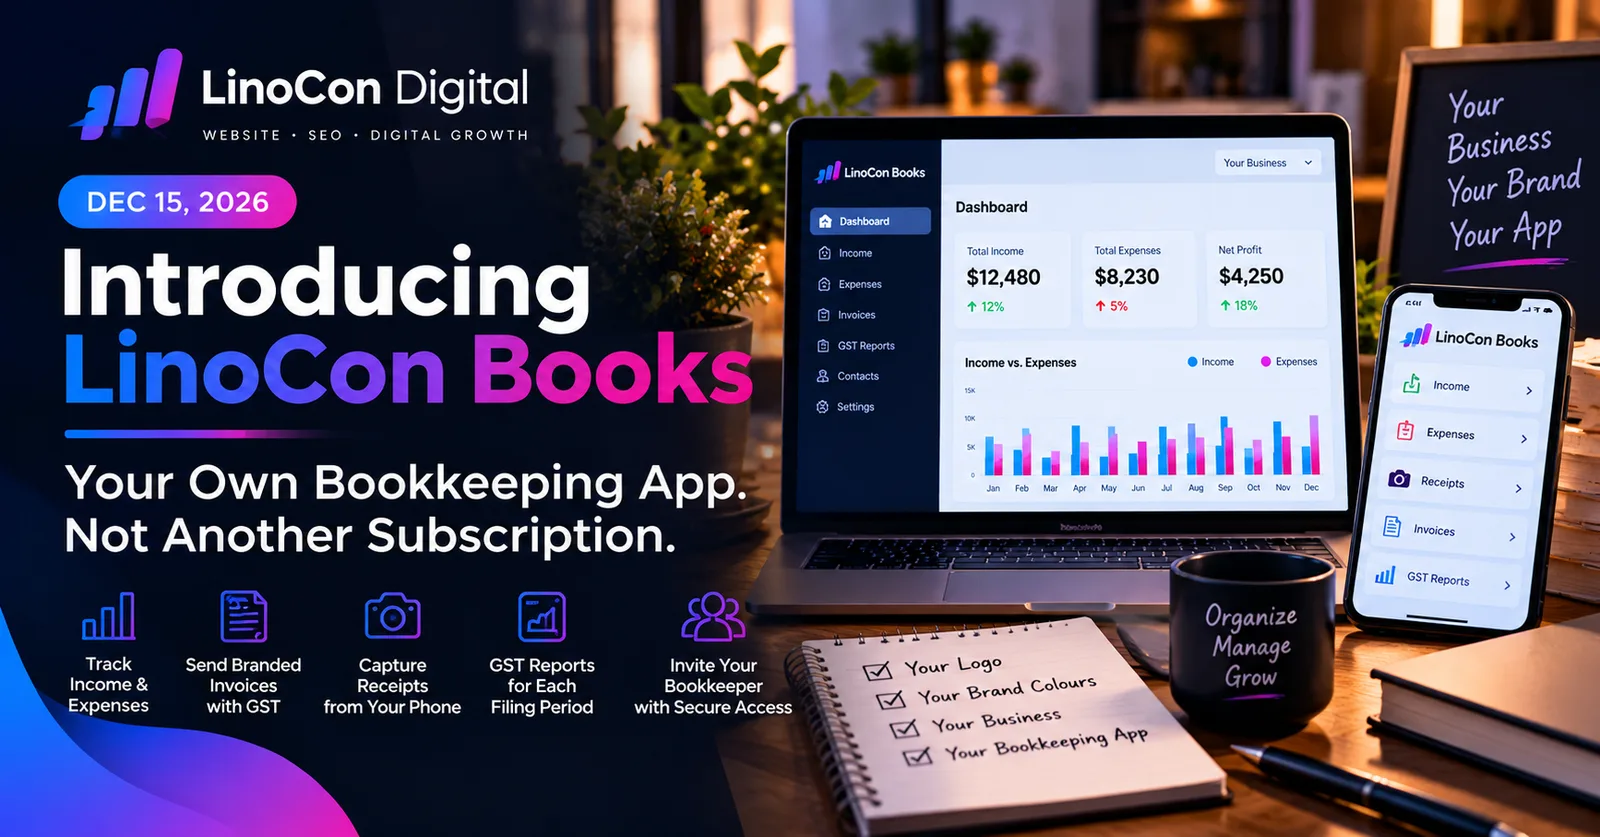
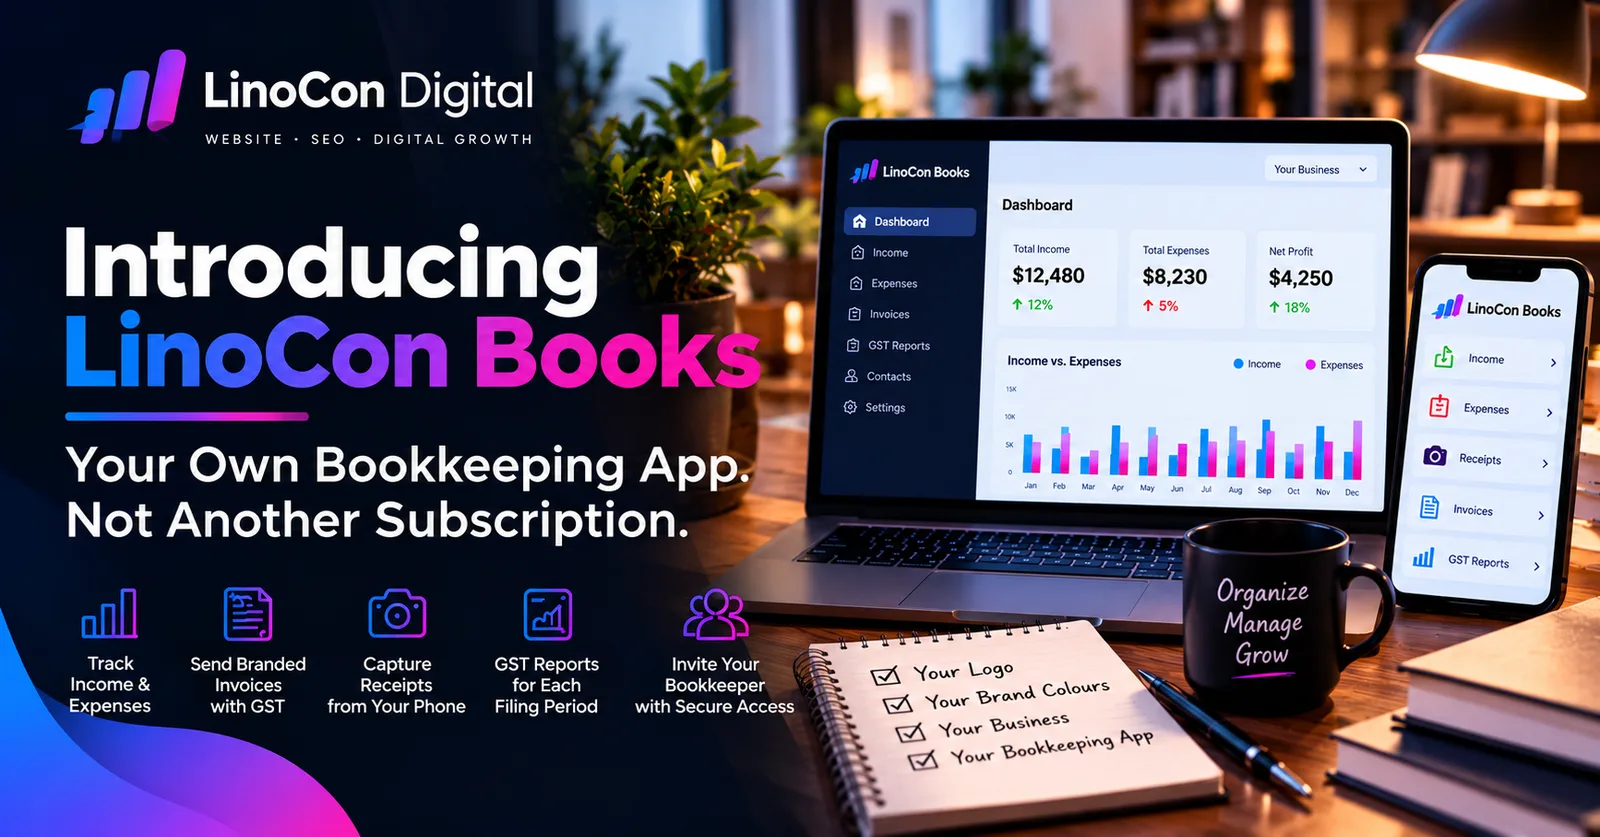
Swap Dec 8 to Get Your Website Ready for 2027; mark Dec 15 coming soon
Replace the Dec 8 invoicing article with Lino's new Dec 8 article and
the 2027 banner, give Dec 15 the LinoCon Books banner without the date
badge and a Coming Soon title, and update the sitemap and links.

Claude-Session: https://claude.ai/code/session_01SWAqLGr8JKo5tJYNwS66BC

diff --git a/src/content/articles/get-your-website-ready-for-2027.md b/src/content/articles/get-your-website-ready-for-2027.md
@@ -1,0 +1,117 @@
+---
+title: Get Your Website Ready for 2027
+description: Prepare your business website for 2027. Discover six practical ways to improve website content, SEO, speed, mobile responsiveness, user experience, and lead generation.
+date: 2026-12-08T09:00:00-08:00
+category: Websites
+image: /articles/get-your-website-ready-for-2027
+imageAlt: A person working on a laptop showing a 2027 website checkup, beside a notebook of 2027 website goals and sticky notes for fresh content, better SEO and more leads.
+---
+
+A new year brings new opportunities for your business. But while many business owners focus on marketing plans, sales targets, and new services, there's one important business asset that deserves attention before the year ends: your website.
+
+Your website is often the first place potential customers go when they want to learn about your business. It introduces your services, communicates your value, builds credibility, and helps visitors decide whether they should contact you.
+
+However, a website that worked well a year ago may no longer support your current business goals. Outdated information, slow loading times, poor mobile experiences, and weak search visibility can make it harder for potential customers to find you and take action.
+
+Before entering 2027, review your website, identify areas that need improvement, and make changes that support your business growth. Here are six important areas to focus on.
+
+## 1. Review and update your website content
+
+Your website should accurately represent your business today, not the business you were running several years ago. [Review your main pages](/articles/essential-small-business-website-pages):
+
+- **Homepage:** Does it clearly explain what your business offers and who you serve?
+- **About page:** Does it communicate your experience, values, and business story?
+- **Services page:** Are your current services explained clearly?
+- **Contact page:** Are your contact details, enquiry forms, and business information correct?
+- **Project or portfolio pages:** Do they showcase your latest work, products, or achievements?
+
+Remove outdated promotions, expired offers, discontinued services, and information that no longer reflects your business. Consider adding new photographs, updated testimonials, recent projects, and clearer service descriptions.
+
+Your content should answer three important questions: What does your business offer? Why should customers choose you? What should visitors do next? Clear, relevant content makes it easier for visitors to understand your business and take the next step.
+
+## 2. Improve your website SEO
+
+Having a website is only part of building an online presence. Potential customers also need ways to discover it. [Search engine optimization (SEO)](/articles/what-is-seo-setup) helps search engines understand your website and determine which searches your pages may be relevant to.
+
+- **Check page titles and descriptions:** Each important page should have a meaningful title and meta description that accurately describe its content.
+- **Review your headings:** Use clear page headings and supporting subheadings to organize information.
+- **Improve content relevance:** Explain your services using language your potential customers actually use when searching for solutions.
+- **Review internal links:** Connect related pages so visitors can easily discover your services and useful information.
+- **Check image optimization:** Use descriptive image filenames, appropriate image sizes, and meaningful alternative text where appropriate.
+
+SEO is an ongoing process. A few updates do not guarantee higher rankings, but maintaining a technically sound, relevant, and useful website gives your business a stronger foundation for search visibility.
+
+## 3. Improve website speed and performance
+
+Visitors expect websites to load quickly. When pages take too long to display, people may leave before they have an opportunity to explore your business.
+
+Check whether images are unnecessarily large, unused plugins or scripts are slowing your website, hosting is reliable, pages load properly across devices, and unnecessary animations or features affect performance.
+
+You can use Google's PageSpeed Insights to assess your website's performance and identify potential improvements.
+
+Pay attention to Core Web Vitals: Largest Contentful Paint (LCP), which measures how quickly the main content becomes visible; Interaction to Next Paint (INP), which measures responsiveness; and Cumulative Layout Shift (CLS), which measures unexpected movement of page elements.
+
+You don't need to understand every technical detail immediately. Identify the biggest performance issues and prioritize improvements that make your website faster and easier to use.
+
+## 4. Ensure your website is mobile-friendly
+
+Many potential customers browse websites using smartphones and tablets. If your website looks good on a desktop but becomes difficult to navigate on a mobile device, you could be creating unnecessary obstacles for visitors.
+
+Test whether text is readable without zooming, buttons are comfortable to tap, the navigation menu works, images fit the screen, enquiry forms are easy to complete, and contact information is easy to find.
+
+Mobile responsiveness is more than making a website fit a smaller screen. It means creating a consistent and convenient experience regardless of the device being used.
+
+## 5. Improve the user experience
+
+A professional website should not simply look attractive. It should help visitors find information and complete actions without confusion. Think about the experience someone has when visiting your website for the first time.
+
+- **Navigation:** Keep menus simple and organize pages logically.
+- **Calls to action:** Use clear buttons such as "Request a Quote," "Book a Consultation," or "Contact Us."
+- **Visual consistency:** Maintain consistent typography, colours, spacing, and image styles.
+- **Trust signals:** Include genuine customer testimonials, relevant credentials, business information, and examples of your work.
+- **Contact accessibility:** Make it easy for visitors to reach your business.
+
+Every page should have a purpose. Avoid unnecessary elements that distract visitors. A well-organized website helps turn browsing into meaningful engagement.
+
+## 6. Set website goals that support more leads in 2027
+
+Your website should contribute to your business objectives. Instead of simply saying you want more website traffic next year, establish measurable goals.
+
+Examples include increasing relevant organic traffic, generating more qualified enquiries, improving completed contact forms, increasing appointment bookings, improving engagement with important service pages, publishing useful content consistently, and strengthening visibility for relevant search terms.
+
+Use website analytics to establish a baseline before setting targets. Google Analytics 4 can help you understand website traffic and visitor behaviour, while Google Search Console provides information about search performance, indexing, and search queries.
+
+Review results regularly. Identify which pages attract visitors, where people leave, and which improvements deserve attention. The objective is not simply to attract more visitors. It is to attract the right visitors and make it easier for them to become customers.
+
+## Your 2027 website preparation checklist
+
+Before the new year begins, use this checklist to review your website. You don't have to complete everything in one day. Prioritize the improvements that have the greatest impact on your visitors and business objectives.
+
+| Website improvement | Done |
+| --- | --- |
+| Review and update website content | ☐ |
+| Remove outdated information and promotions | ☐ |
+| Review SEO titles and descriptions | ☐ |
+| Improve headings and internal links | ☐ |
+| Check website speed and performance | ☐ |
+| Review mobile responsiveness | ☐ |
+| Improve navigation and user experience | ☐ |
+| Update photographs and visual content | ☐ |
+| Test enquiry forms and contact buttons | ☐ |
+| Review analytics and establish 2027 goals | ☐ |
+
+## How LinoCon Digital can help
+
+Preparing your website for a new year is also an opportunity to consider whether your current online presence is still supporting your business. At LinoCon Digital, we help businesses build and improve their online foundations through [website creation](/services/website-creation), [SEO setup](/services/seo-setup), and [backlink building](/services/backlink-building).
+
+Whether you need a new website, improvements to an existing one, or a stronger SEO foundation, our approach focuses on creating a professional online presence that supports your business objectives.
+
+A website should do more than simply exist. It should communicate your value, build confidence, and make it easier for potential customers to choose your business.
+
+Get found. Get chosen. Get growing.
+
+**Ready to improve your online presence for 2027? Visit LinoCon Digital to explore how professional [website creation](/services/website-creation) and [SEO setup](/services/seo-setup) can help prepare your business for its next stage of growth.**
+
+---
+
+*LinoCon Digital | Get found. Get chosen. Get growing.*

diff --git a/src/content/articles/introducing-linocon-books.md b/src/content/articles/introducing-linocon-books.md
@@ -1,17 +1,17 @@
 ---
-title: "Introducing LinoCon Books: Your Own Bookkeeping App, Not Another Subscription"
+title: "Coming Soon: LinoCon Books, Your Own Bookkeeping App, Not Another Subscription"
 description: "A first look at LinoCon Digital's planned 2027 bookkeeping app for small businesses, and the ownership-focused model behind it."
 date: 2026-12-15T09:00:00-08:00
 category: LinoCon Books
 image: /articles/introducing-linocon-books
-imageAlt: The planned LinoCon Books dashboard on a laptop and phone, with a December 15, 2026 badge and a list of its planned features.
+imageAlt: The planned LinoCon Books dashboard on a laptop and phone, with a list of its planned features.
 ---
 
 Small business owners have enough to manage: customers, projects, invoices, expenses, deadlines, and the daily work of keeping the business moving. Financial records are part of that work, but the tools used to manage them can sometimes feel like one more complicated system to maintain.
 
 LinoCon Digital is developing [LinoCon Books](/books), a bookkeeping app planned for 2027. The idea is straightforward: provide a small business with a branded bookkeeping app configured on its own domain, with a payment model designed around a defined 12-month term rather than an indefinite software subscription.
 
-LinoCon Books is not available yet. This article introduces the planned concept and explains what small businesses should consider when evaluating bookkeeping software and ownership-oriented alternatives. Final features, pricing, terms, and availability may change before launch.
+**LinoCon Books is coming soon.** It is not available yet. This article introduces the planned concept and explains what small businesses should consider when evaluating bookkeeping software and ownership-oriented alternatives. Final features, pricing, terms, and availability may change before launch.
 
 ## What is LinoCon Books?
 
@@ -121,7 +121,7 @@ The planned reports may help organize information, but they do not replace profe
 
 ## Conclusion
 
-Good bookkeeping starts with accurate records and a process you can maintain. [Invoicing, expense tracking](/articles/invoicing-and-expense-tracking), receipt storage, tax reporting, and accountant-ready exports can all help make that process more manageable when they fit the way your business works.
+Good bookkeeping starts with accurate records and a process you can maintain. Invoicing, expense tracking, receipt storage, tax reporting, and accountant-ready exports can all help make that process more manageable when they fit the way your business works.
 
 LinoCon Books is being developed for a planned 2027 launch with a clear concept: a branded bookkeeping app configured on the customer's own domain, a 12-month payment plan, and an ownership-oriented model with an ongoing hosting fee if the customer chooses to remain hosted with LinoCon Digital. The final details will matter, so prospective users should review the published terms before making a decision.
 

diff --git a/src/content/articles/bookkeeping-software-subscription-vs-ownership.md b/src/content/articles/bookkeeping-software-subscription-vs-ownership.md
@@ -99,7 +99,7 @@ LinoCon Digital is preparing [LinoCon Books](/books), a bookkeeping app planned 
 
 The planned model involves payments over 12 months. After that term, a small ongoing hosting fee would apply if the customer chooses to keep the app hosted with LinoCon Digital. The intended approach is for the customer to own the app after completing the payment period and to be able to take it elsewhere if they leave, subject to the final contract, technical handover terms, and third-party dependencies.
 
-Planned features include a dashboard for money in and money out, profit and GST tracking; branded invoices; [expense tracking](/articles/invoicing-and-expense-tracking) with receipt photos; GST-period reports; and exports intended to help prepare records for an accountant. These are planned features and details may be refined before launch.
+Planned features include a dashboard for money in and money out, profit and GST tracking; branded invoices; expense tracking with receipt photos; GST-period reports; and exports intended to help prepare records for an accountant. These are planned features and details may be refined before launch.
 
 Because LinoCon Books is planned for 2027 and is not yet available, businesses should review the final feature list, ownership definition, hosting terms, support scope, security practices, and migration process when those details are published. The goal is to make the arrangement understandable before a customer commits.
 
